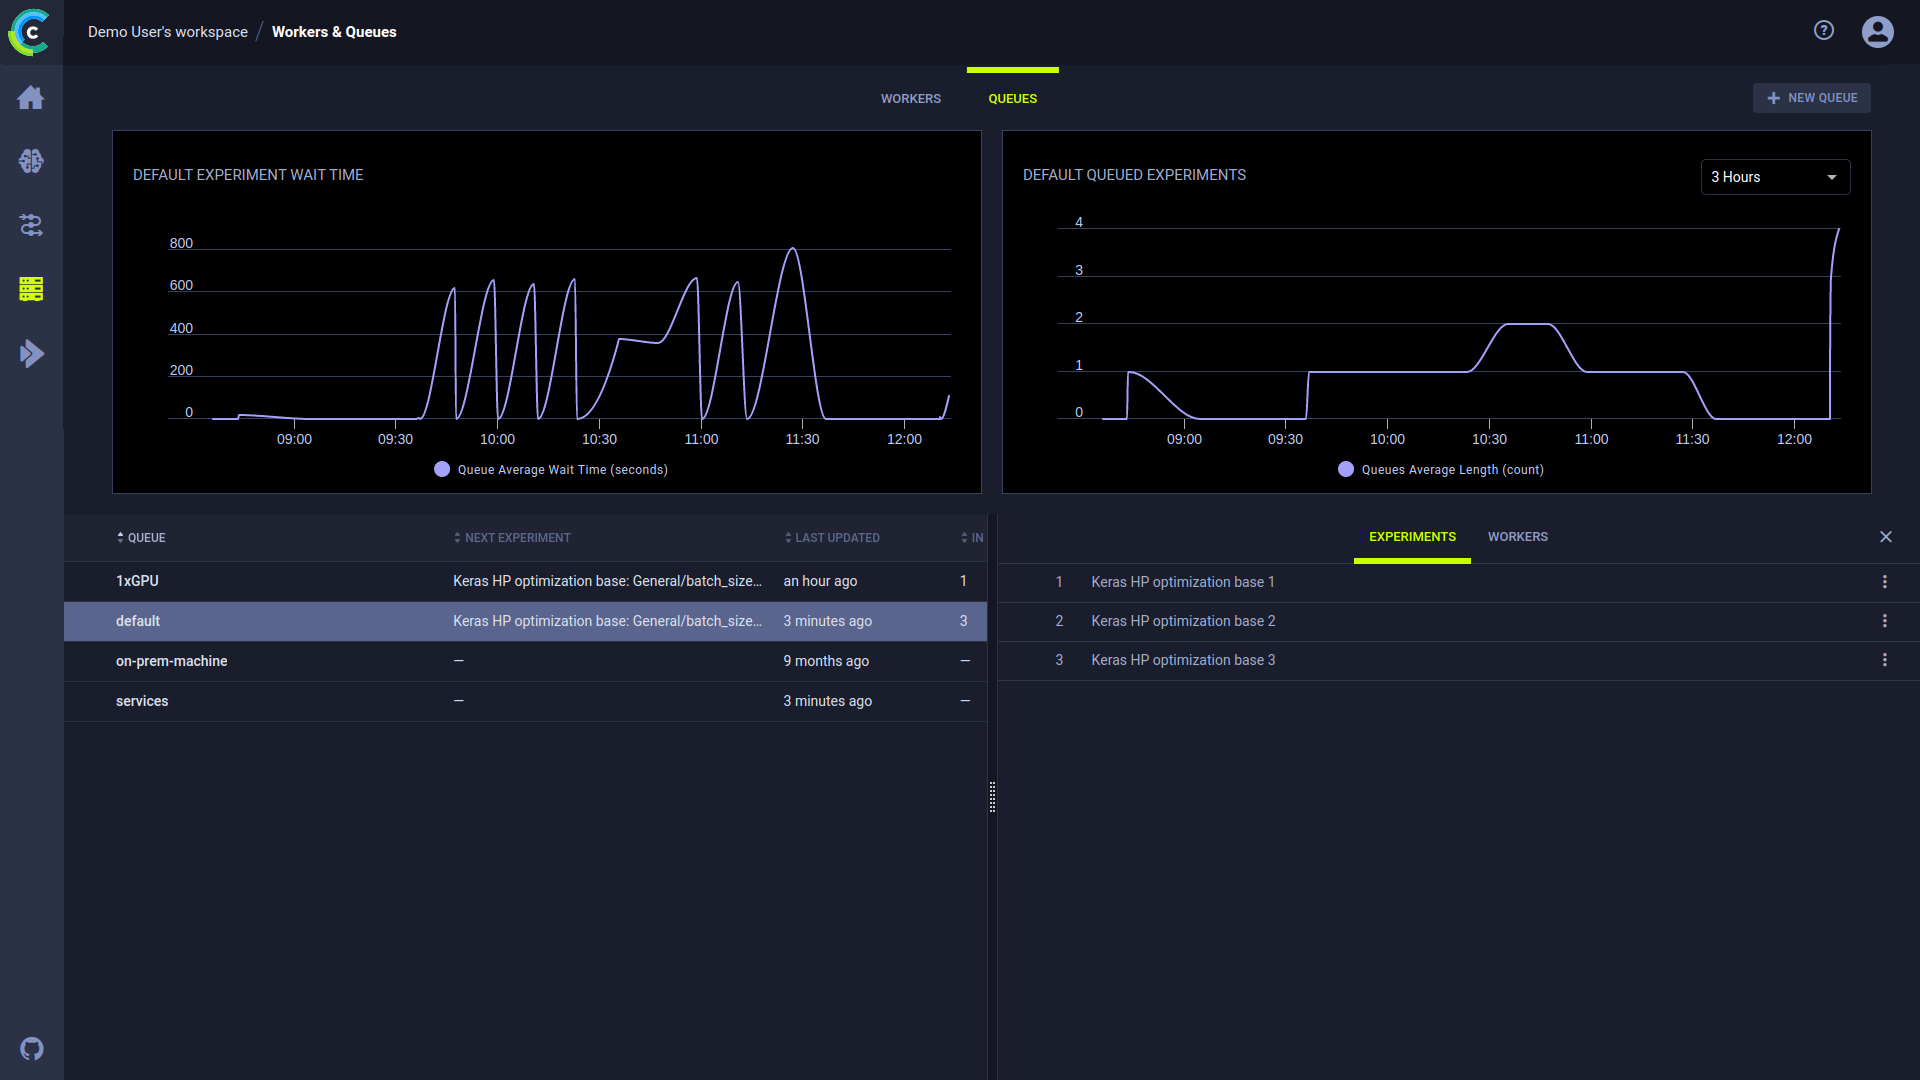
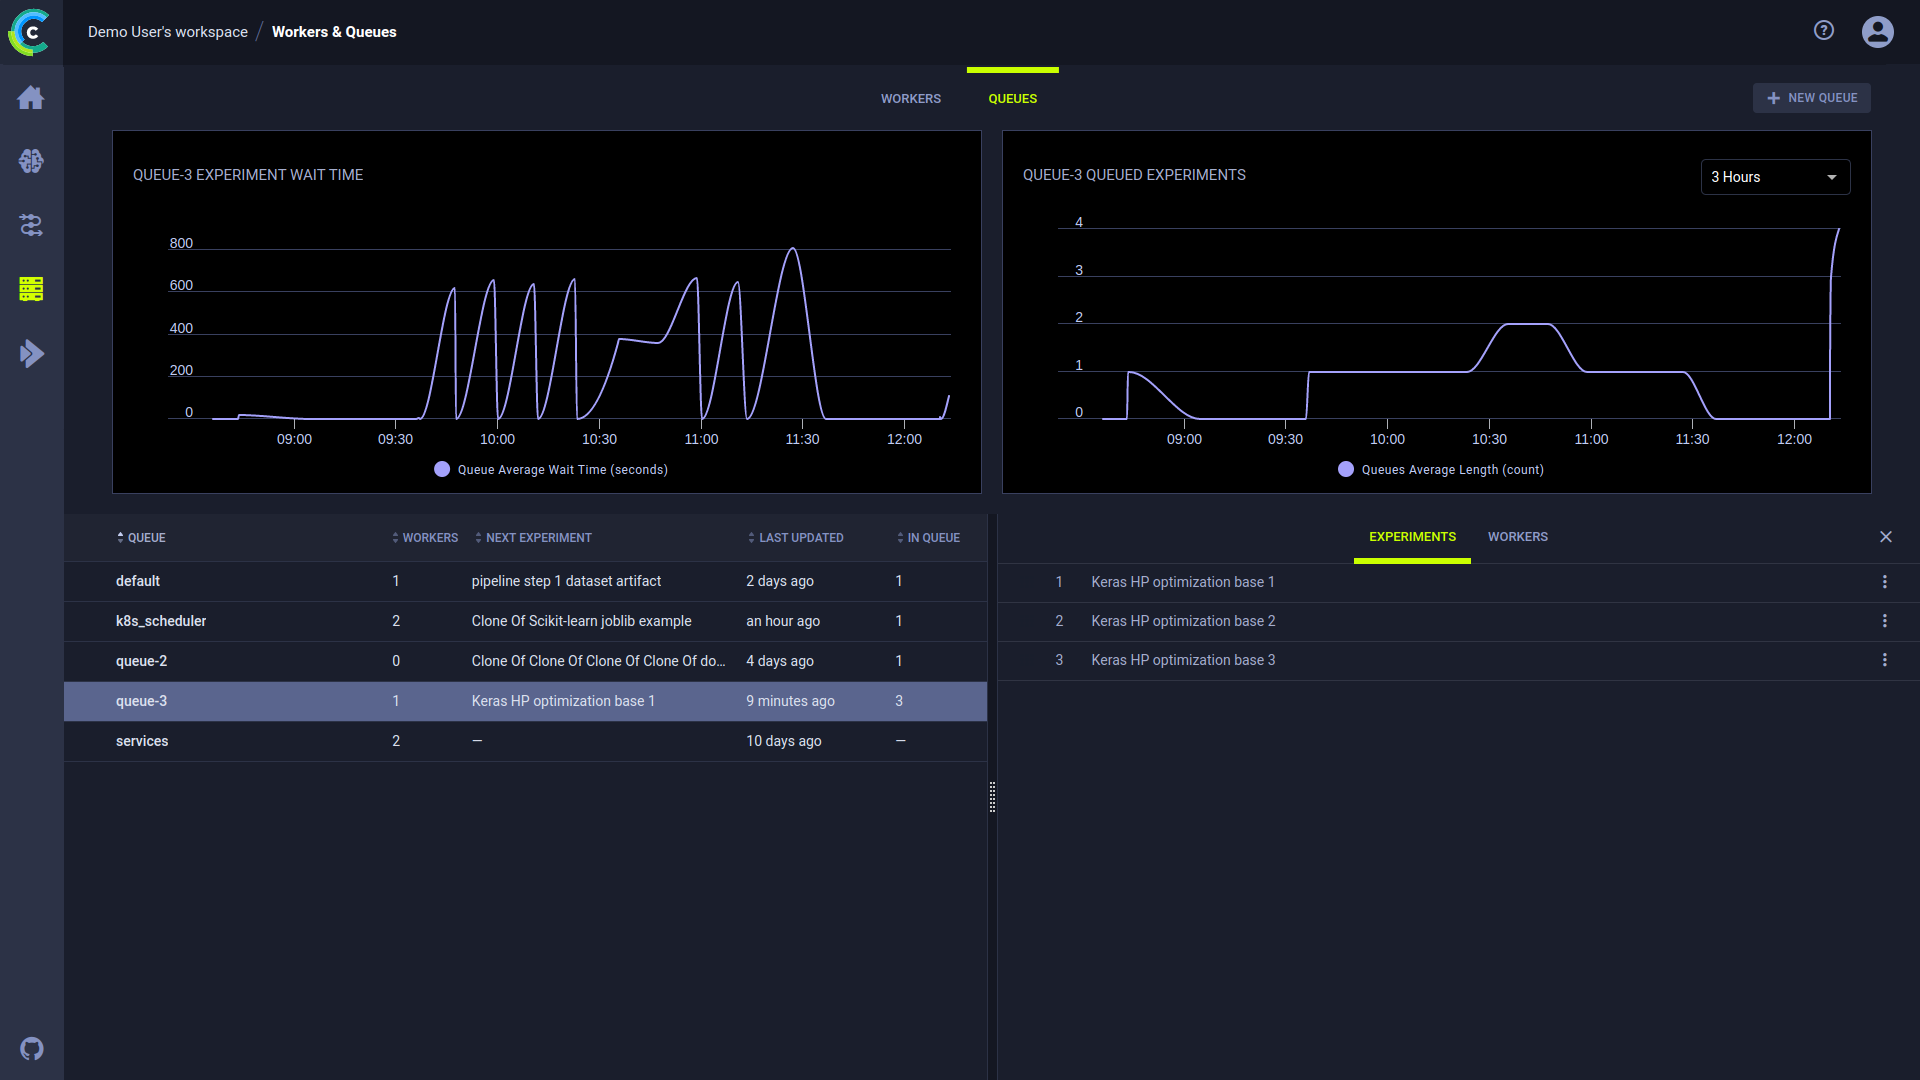
workers column in workers and queues

Changed region(s): [[0.0312, 0.4889, 0.5312, 0.7028], [0.5312, 0.1528, 0.6562, 0.1833], [0.0625, 0.1528, 0.1875, 0.1833]]

diff --git a/docs/webapp/webapp_workers_queues.md b/docs/webapp/webapp_workers_queues.md
@@ -52,8 +52,9 @@ Use the **QUEUES** tab to manage queues and monitor their statistics. The page s
 wait time and the number of queued experiments, and a queue details table. Hover over any plot point to view its data. 
 By default, the graphs display the overall information of all queues. 
 
-The queue table shows the following queue information: 
+The queue table shows the following queue information:
 * Queue - Queue name 
+* Workers - Number of workers servicing the queue
 * Next Experiment - The next experiment available in this queue
 * Last Updated - The last time queue contents were modified
 * In Queue - Number of experiments currently enqueued in the queue
